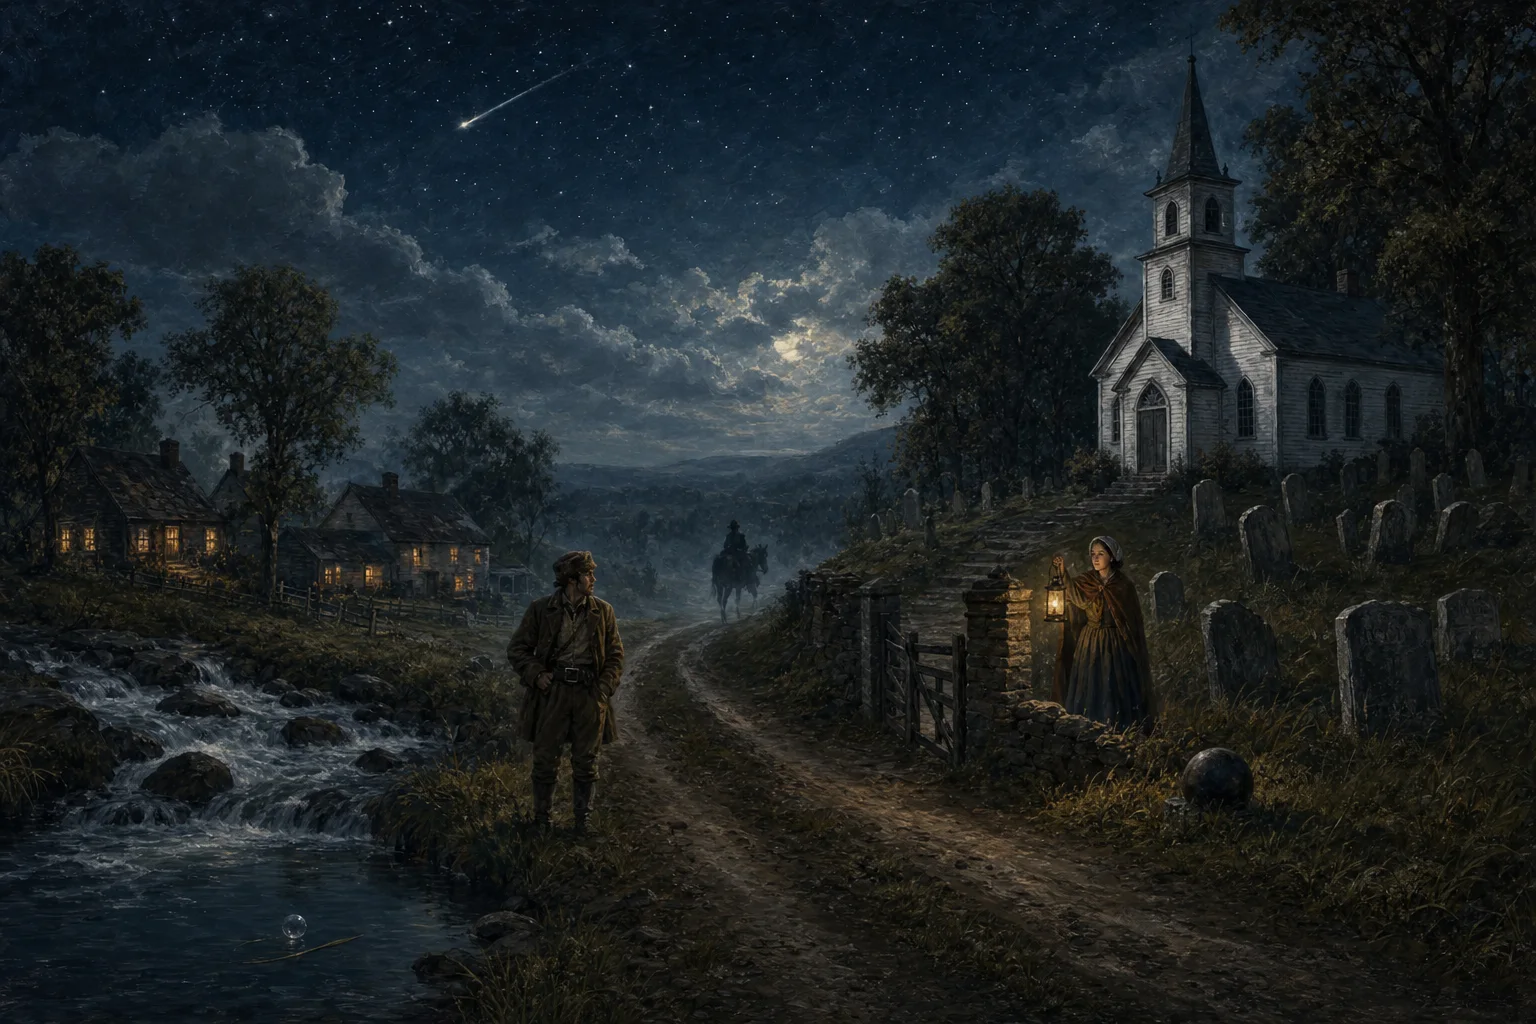
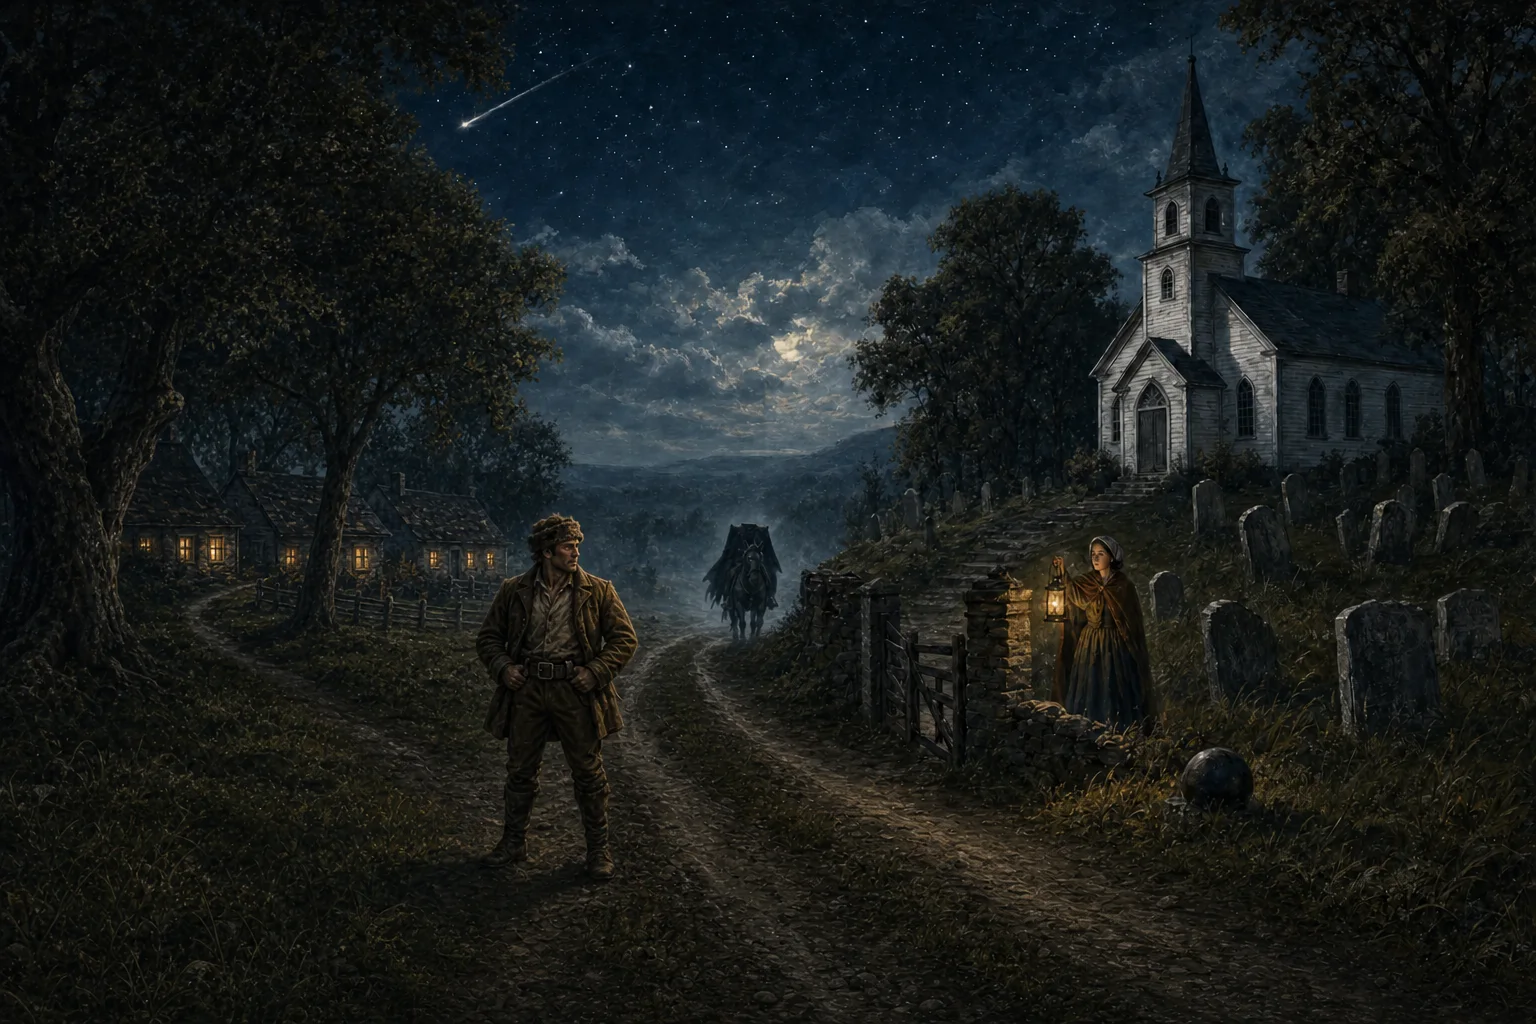
Room 1 Chamber 2 scene, finished: headless rider, Brom in his fur cap, no still pool (a comparison, not a place); lock 10 is the hollow's old trees, the new bonus is the side road

diff --git a/docs/scene-review-room1.md b/docs/scene-review-room1.md
@@ -7,7 +7,7 @@ Previews are in `Claude outputs/scenes/`:
 - `*-play.jpg`: how a student sees it, with subtle markers. A brass ring with a soft lantern glow is on the next item, small brass checks are on opened items, and later or hidden items have no marker.
 - `*-key.jpg`: the placement key, for review only.
 
-## Chamber 1: the glen (¶3 to ¶5), golden hour. Finished.
+## Chamber 1: the glen (¶3 to ¶5), golden hour. Approved 2026-11-15.
 
 | Spot | What it is | Opens |
 |---|---|---|
@@ -20,21 +20,21 @@ Previews are in `Claude outputs/scenes/`:
 | The gate | The farm gate where the road leaves the valley | Inner door · the code lock |
 | Hans | The old farmer in a brown coat on the road by the inn | Steps forward at lock 1 |
 
-## Chamber 2: the hollow at night (¶5 to ¶9), moonlight. One fix pending.
+## Chamber 2: the hollow at night (¶5 to ¶9), moonlight. Finished, for approval.
 
 | Spot | What it is | Opens |
 |---|---|---|
 | 6 · The meteor | A meteor streaking across the starry sky | Lock 6 · ¶5 s5 to s6 |
-| 7 · The rider on the road | A cloaked rider far down the road, a silhouette in the mist | Lock 7 · ¶6 s1 to s2 |
+| 7 · The headless rider | A cloaked rider far down the road, clearly headless, a silhouette in the mist | Lock 7 · ¶6 s1 to s2 |
 | 8 · The churchyard | The old graves below the church | Lock 8 · ¶6 s3 to s4 |
-| 9 · The lit farmhouse windows | Farmhouses where families tell tales by the fire | Lock 9 · ¶7 to ¶8 |
-| 10 · The still nook | The calm water by the rapid stream, with a straw afloat | Lock 10 · ¶9 |
+| 9 · The country firesides | Farmhouse windows glowing where families tell tales by the fire (¶7: "known at all the country firesides") | Lock 9 · ¶7 to ¶8 |
+| 10 · The hollow's old trees | Huge old shade trees that have stood in the hollow for generations (¶9: "the same trees and the same families") | Lock 10 · ¶9 |
 | Inspect the Scene | The churchyard gate | After lock 10 |
 | The church door | The exit door: Name the Liar | After the scene |
-| Brom | The young man on the road | Steps forward at lock 7 |
+| Brom | The broad-shouldered young man in a fur cap on the road | Steps forward at lock 7 |
 | Katrina | The young woman with the lantern by the churchyard gate | Steps forward at lock 9 |
 
-**Pending fix:** the distant rider must be clearly headless (the text says so). In this draft his silhouette still shows a head and hat, and Brom should be broad-shouldered with his fur cap, as in his portrait. An edit for both is written. It needs OpenAI credits: the account returned "no credits remaining" partway through.
+**Changes from the draft:** the rider is now clearly headless; Brom is broad-shouldered in his fur cap; and the rushing stream with the still pool, straw and bubble is gone. That ¶9 sentence is a comparison describing the Dutch villages, not a real place, so lock 10's item is now the hollow's old shade trees, from ¶9's literal last sentence. A side road now forks off by the farmhouses for the new bonus item.
 
 ## Bonus items: a reading task before any coins
 
@@ -48,7 +48,7 @@ Each bonus opens only after the lock whose reading contains its line, so a bonus
 | Woodpecker (Chamber 1) | ¶3 s5 | Which bird makes a knocking noise? | woodpecker |
 | Quail (Chamber 1) | ¶3 s5 | Which bird is heard calling now and then? | quail |
 | Cannon-ball (Chamber 2) | ¶6 s2 | In which war did the rider lose his life? | Revolutionary |
-| Bubble (Chamber 2) | ¶9 s2 | What does the narrator call that calm pool, as if it were a port for boats? | harbor |
+| The side road (Chamber 2) | ¶6 s3 ("the adjacent roads") | Beyond the hollow, where else can the phantom be met? | roads |
 
 ## Next, after approval
 
